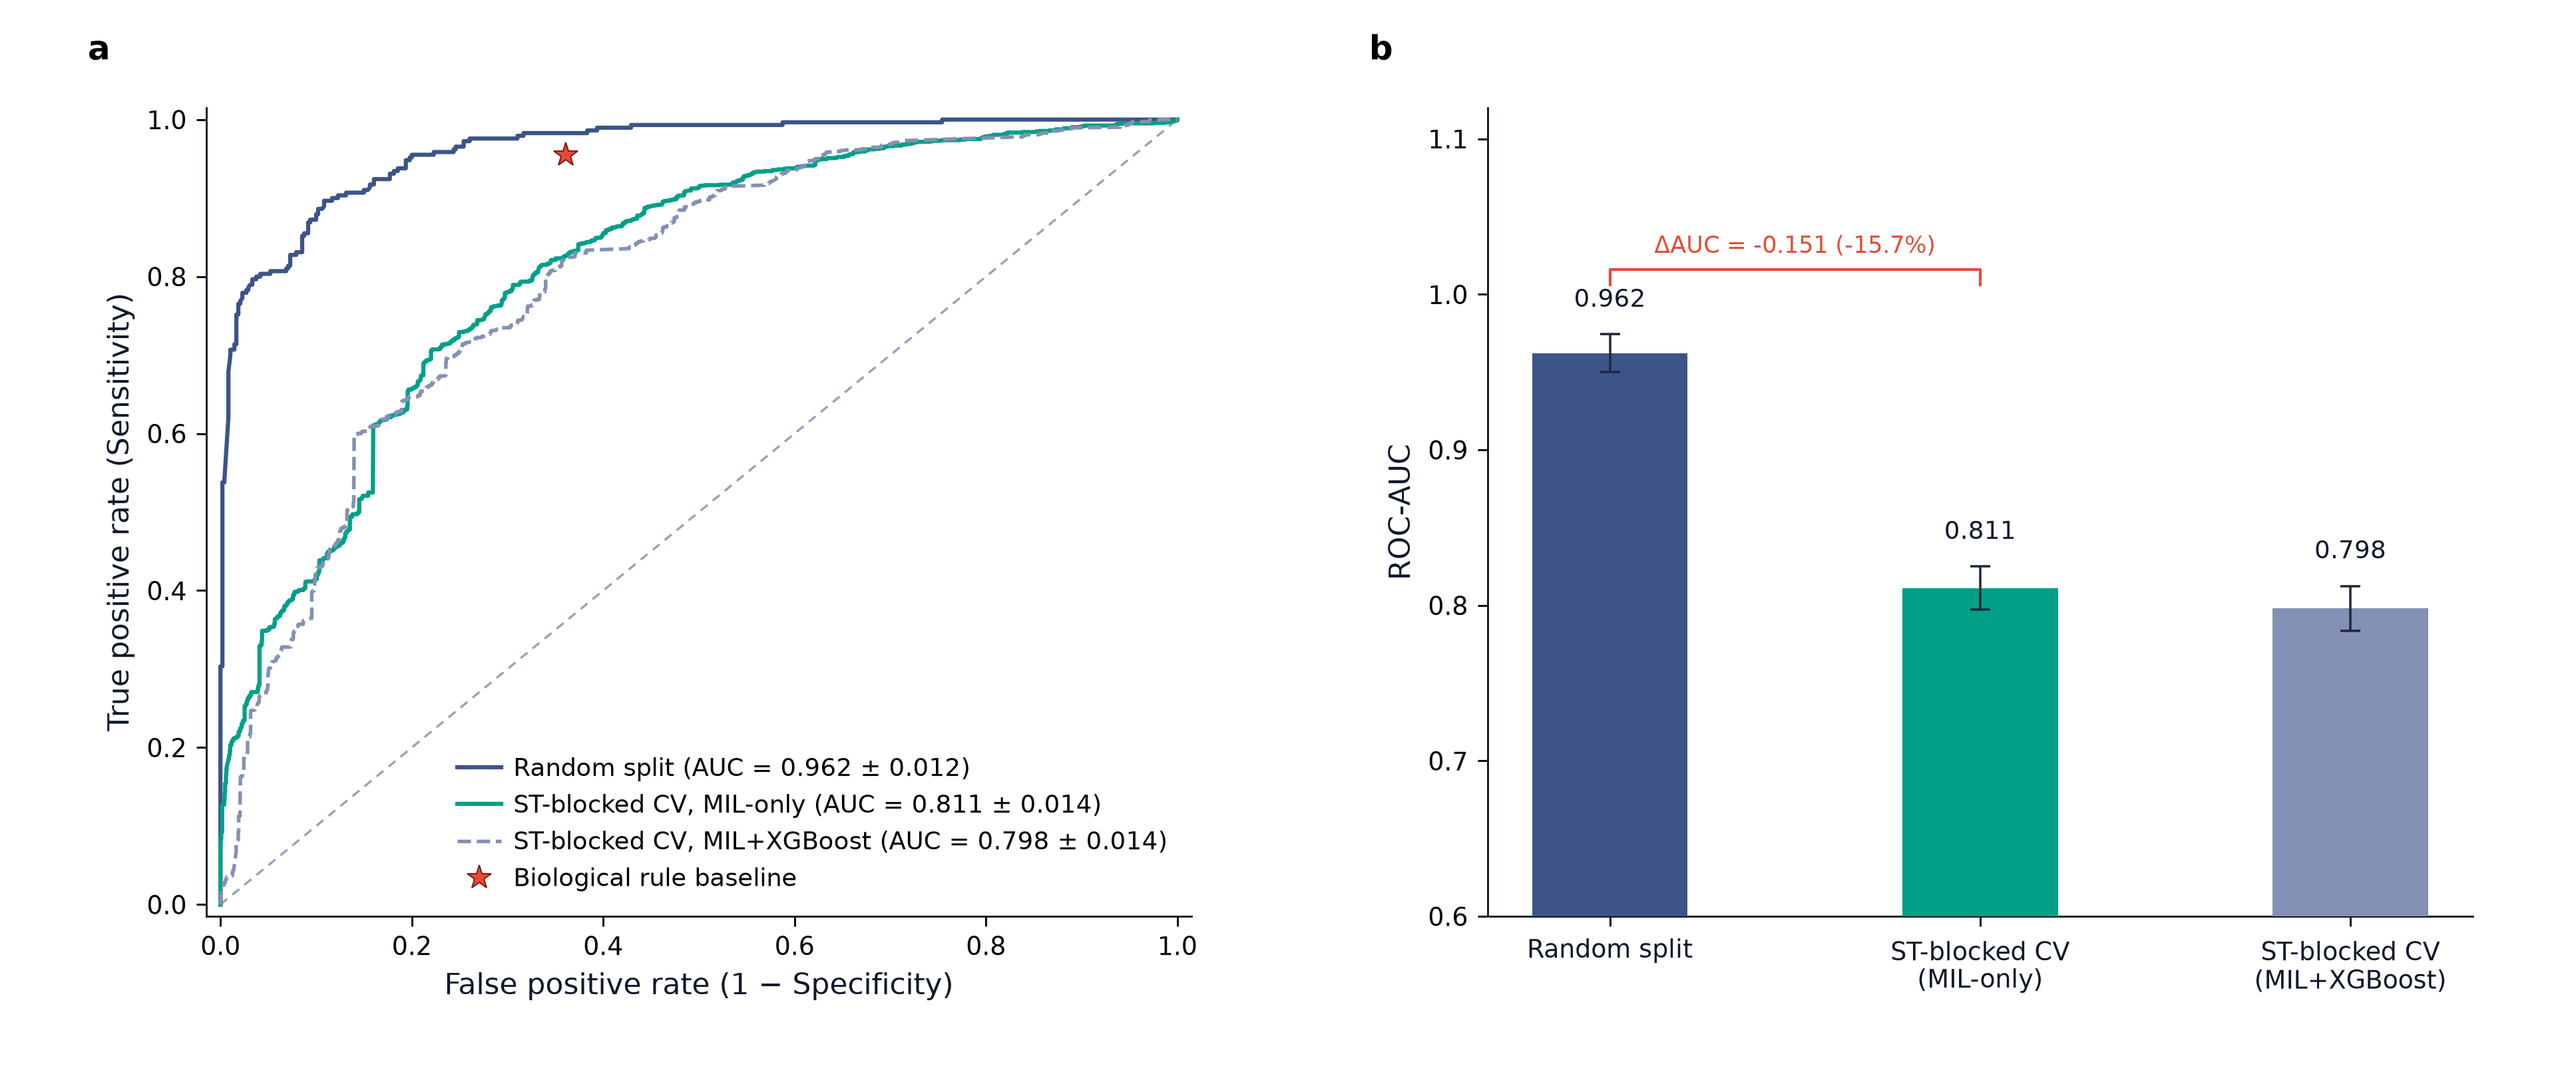
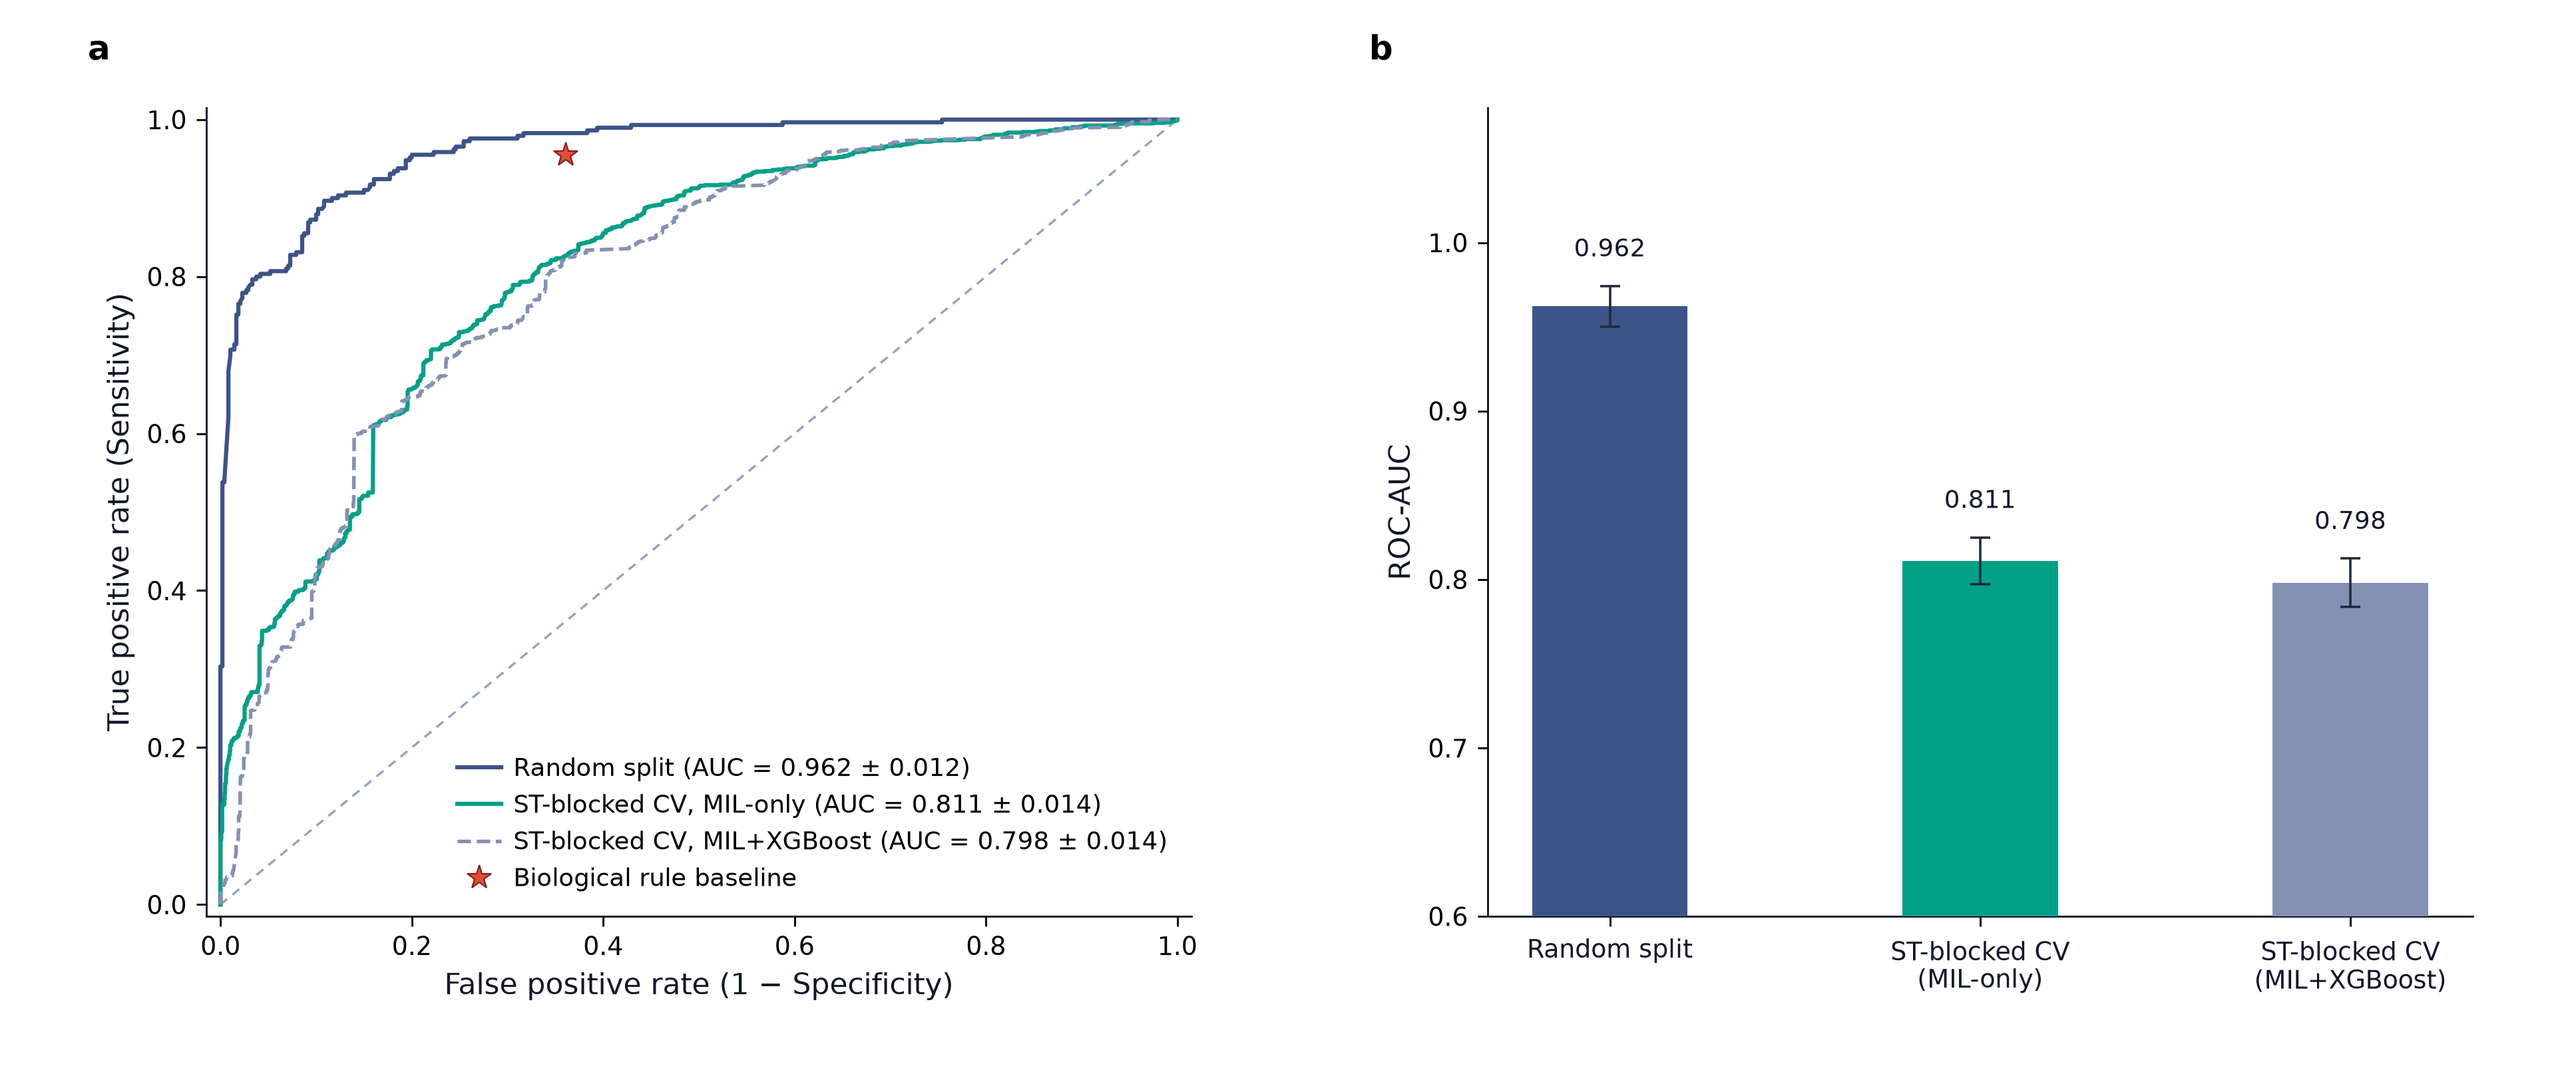
style(fig2): omit delta AUC bracket and label in panel b, keeping clean bars with values and error bars

diff --git a/scripts/new/plot_paper_figure2.py b/scripts/new/plot_paper_figure2.py
@@ -191,29 +191,28 @@ def make_figure():
             fontsize=8.8, color=TEXT_C, zorder=4,
         )
 
-    # ── ΔAUC bracket (minimal: thin bracket + one short label) ───────
-    delta_auc = auc_mil - auc_rs
-    pct_drop  = (delta_auc / auc_rs) * 100
-
-    y_top = max(auc_rs, auc_mil) + max(ci_rs, ci_mil) + 0.040
-    hb    = 0.010   # bracket arm height
-
-    ax_bar.plot(
-        [0, 0, 1, 1],
-        [y_top - hb, y_top, y_top, y_top - hb],
-        color=COL_BASE, lw=1.0, zorder=5,
-    )
-    ax_bar.text(
-        0.5, y_top + 0.007,
-        f"ΔAUC = {delta_auc:.3f} ({pct_drop:.1f}%)",
-        ha="center", va="bottom",
-        fontsize=8.5, color=COL_BASE, zorder=5,
-    )
+    # ── ΔAUC bracket (omitted: keeping only the 3 bars with values and error bars) ──
+    # delta_auc = auc_mil - auc_rs
+    # pct_drop  = (delta_auc / auc_rs) * 100
+    # y_top = max(auc_rs, auc_mil) + max(ci_rs, ci_mil) + 0.040
+    # hb    = 0.010   # bracket arm height
+    # ax_bar.plot(
+    #     [0, 0, 1, 1],
+    #     [y_top - hb, y_top, y_top, y_top - hb],
+    #     color=COL_BASE, lw=1.0, zorder=5,
+    # )
+    # ax_bar.text(
+    #     0.5, y_top + 0.007,
+    #     f"ΔAUC = {delta_auc:.3f} ({pct_drop:.1f}%)",
+    #     ha="center", va="bottom",
+    #     fontsize=8.5, color=COL_BASE, zorder=5,
+    # )
 
     ax_bar.set_xticks(x_pos)
     ax_bar.set_xticklabels(models, color=TEXT_C, linespacing=1.2)
     ax_bar.set_ylabel("ROC-AUC", color=TEXT_C)
-    ax_bar.set_ylim(0.60, 1.12)
+    ax_bar.set_ylim(0.60, 1.08)
+    ax_bar.set_yticks([0.60, 0.70, 0.80, 0.90, 1.00])
 
     for sp in ["top", "right"]:
         ax_bar.spines[sp].set_visible(False)
